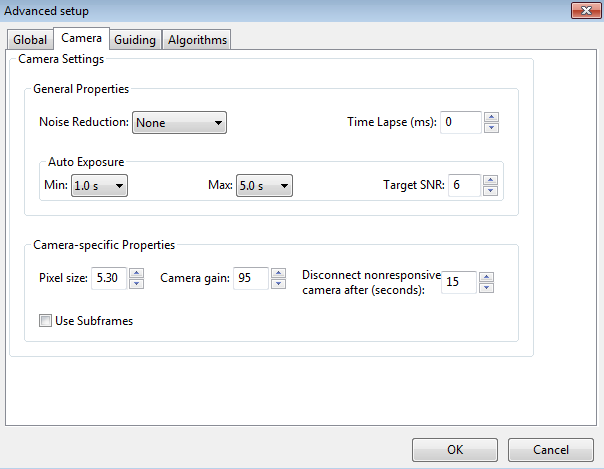
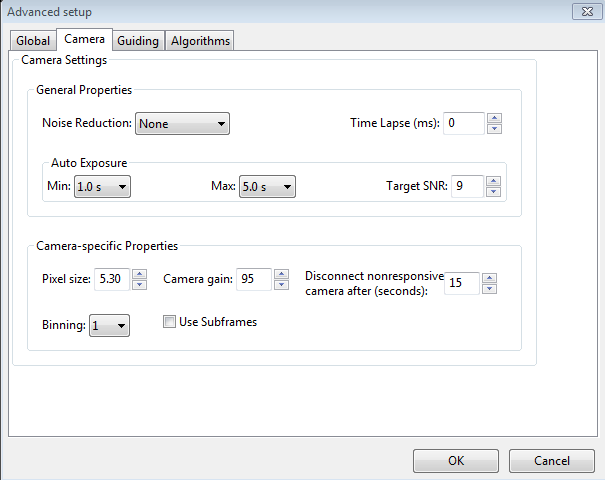
Help file updates

Changed region(s): [[0.0, 0.0, 1.0, 1.0], [0.2682, 0.6567, 0.447, 0.6866]]

diff --git a/help/Tools.htm b/help/Tools.htm
@@ -22,23 +22,24 @@ experiment with manual dithering. &nbsp;In the 'Tools' menu, click on
 'Manual
 Guide'&nbsp;<span style="font-weight: bold;"><span style="font-weight: bold;"></span></span>and
 a dialog will appear to let you move the mount at guide speed in any
-direction. Each time you press the button, a pulse of the&nbsp;duration
+direction. If you have an
+adaptive optics device attached, you'll see separate move buttons for
+both the AO and the secondary mount. &nbsp;Each time you press the button, a pulse of the&nbsp;duration
 specified in the 'Guide Pulse Duration' field will
 be sent. &nbsp;The default value is the 'calibration step-sze' set in
-the Advanced Options dialog. &nbsp;If you are debugging calibration
-problems, listen to (rather than watch) your mount to determine if the
-mount is getting
+the Advanced Options dialog. &nbsp;If you are debugging mount/calibration
+problems in the daytime, listen to (rather than watch) your mount to determine if it is getting
 the commands from <span style="font-style: italic;">PHD2</span>. The idea here is just to figure out if the
 mount is responding
 to <span style="font-style: italic;">PHD2</span>'s
 signals. You won't be able to see the mount move (it's moving
 at guide speed)
-but you may be able to hear it. Other options include watching the
-motors themselves or
+but you may be able to hear the motors. Other options include watching
+the
+motors and gears or
 attaching a laser pointer to your scope and aiming it at something
-fairly far away (to amplify your motions). &nbsp;If you have an
-adaptive optics device attached, you'll see separate move buttons for
-both the AO and the secondary mount. &nbsp;<br>
+fairly far away (to amplify your motions). &nbsp;A better&nbsp;approach
+for nighttime testing is to run the "star-cross" test described <a href="Trouble_shooting.htm#Star_cross_test">here</a>.&nbsp; &nbsp;<br>
 <br>
 <a name="Dithering"></a>Dithering
 is used primarily with image capture or automation applications,
@@ -228,12 +229,17 @@ of these image files is controlled from the 'Global' tab of the
 problem you're having, you should choose the 'Raw Fits' format for
 maximum flexibility.<br>
 <h3><a name="Drift_Align"></a>Drift Align</h3>
-Drift alignment is a well-known technique for achieving polar alignment and
+Drift alignment is a well-known technique for achieving polar alignment
+and
 is considered by many to be the "gold standard". &nbsp;The Drift
 Alignment tool is a&nbsp;wizard-like sequence of dialogs that can help
 you work through the drift alignment process and get quantifiable
-results. &nbsp;Once you've calibrated your guider, click on 'Drift
-Align' under the 'Tools' menu. &nbsp;The first Drift Align dialog will
+results. &nbsp;Once you've calibrated your guider and have started
+guiding, click on 'Drift
+Align' under the 'Tools' menu. &nbsp;The Drift Alignment tool will
+disable and re-enable declination guiding as necessary, so don't worry
+about that. &nbsp;It will also keep RA guiding active so&nbsp;uncorrected periodic error in the mount doesn't interfere with the
+measurements. &nbsp;The first Drift Align dialog will
 appear to help you adjust the azimuth on your mount. &nbsp;If you are
 using an ASCOM mount, you'll have the option of slewing to an area
 near the celestial equator and the celestial meridian. &nbsp;If you're
@@ -265,7 +271,7 @@ can use the 'notes' field to record which way the drift line moves
 depending on how you make the adjustment. &nbsp;For example, you might
 note that a counter-clockwise turn of the mount azimuth knob moves the
 drift line "up." &nbsp;Since these notes are retained across <span style="font-style: italic;">PHD2</span>
-sessions, subsequent drift alignments will probably proceed more
+sessions, subsequent drift alignments will probably go more
 quickly.<br>
 <br>
 Until you are experienced with drift aligning your particular mount, the
@@ -287,7 +293,12 @@ clear view of how the adjustment has moved the star on the guide frame.<br>
 <br>
 Next, click on the 'Altitude' button.
 &nbsp;Then slew the scope to a position near the celestial equator and
-25-30 degrees above the horizon. &nbsp;Click on the 'drift' button to
+25-30 degrees above the east or west horizon. &nbsp;If you have
+obstructions in both directions and can't slew this low, don't worry
+about it - just get as close as you can. &nbsp;Using higher elevations
+on the east or west horizon will still work, but it may take a bit
+longer to converge on your final polar alignment. &nbsp;Click on the
+'drift' button to
 begin collecting data for the altitude part of the alignment process.
 &nbsp;As before, you will iterate between making adjustments and
 measuring your alignment until you are satisfied with the result,
@@ -297,14 +308,19 @@ of the declination drift line.
 go back to the 'azimuth' measurement and repeat that procedure.
 &nbsp;If you work through these procedures systematically, you'll
 converge on a good polar alignment with a known degree of accuracy.
-&nbsp;A good polar alignment will&nbsp;help your guiding performance,
-especially in declination.<br><br>The
+&nbsp;A good polar alignment will&nbsp;help your guiding performance
+and will avoid field rotation in your images..<br><br>The
 drift alignment tool is easiest to use when you are using an ASCOM
 connection to your mount (including an 'Aux' connection). &nbsp;Even if
 you subsequently want to use
 ST-4 style guiding, you should use the ASCOM connection for drift
-alignment. &nbsp;If you can't do that for some reason, the following
-features will be impaired:<br><ul><li>Scope position data and slewing functions will not be available - you'll have to slew the scope yourself</li><li>The
+alignment to make things easier. &nbsp;If you can't do that for some reason, the following
+features will be impaired:<br><ul><li>Scope
+position data and slewing functions will not be available - you'll have
+to slew the scope yourself. &nbsp;Keep in mind, the target
+altitude/azimuth positions are only approximate - you don't need to be
+particularly concerned about accuracy - just get reasonably close with
+a good guide star available in the field of view.</li><li>The
 magenta circle that identifies the&nbsp;target for moving the star will be
 inaccurate and will be displayed as a dashed line. &nbsp;This dashed
 circle will identify only an upper bound to the adjustment, so you will

diff --git a/help/Basic_use.htm b/help/Basic_use.htm
@@ -52,7 +52,28 @@ that are already installed on your system, if any.<br><br>The
 list of supported cameras at the time of writing is shown below - but
 you can contact the <a href="https://groups.google.com/forum/#%21forum/open-phd-guiding">open-phd-guiding forum</a> to inquire about your specific camera or mount.<br>
 <br>
-Supported cameras, December 2014:<br><br>Windows:<br><ul class="circle"><li>ASCOM v5/6 compliant cameras</li><li>Atik 16 series, color or monochrome</li><li>Atik Gen 3 color or monochrome</li><li>CCD-Labs Q-Guider</li><li>Fishcamp Starfish</li><li>iNova PLC-M</li><li>MagZero MZ-5</li><li>Meade DSI series: I-III, color and monochrome</li><li>Orion StarShoot DSCI&nbsp;</li><li>Orion Starshoot Autoguider</li><li>Orion Starshoot Planetary Imager and Autoguider</li><li>QHY 5-II</li><li>QHY 5L-II</li><li>SAC4-2</li><li>SBIG</li><li>SBIG rotator</li><li>Starlight Xpress SXF / SXVF / Lodestar</li><li>Webcams (LXUSB, parallel, serial, OpenCV, WDM)</li><li>ZWO ASI</li></ul>Mac:<br><ul><li>Fishcamp Starfish</li><li>KWIQGuider</li><li>Meade DSI series: I-III, color and monochrome</li><li>Orion Starshoot Autoguider</li><li>SBIG</li><li>Starlight XPress SXV</li><li>The Imaging Source (DCAM Firewire)</li><li>ZWO ASI</li></ul><br>
+Supported cameras, December 2014:<br><br>Windows:<br><ul class="circle"><li>ASCOM v5/6 compliant cameras</li><li>Atik 16 series, color or monochrome</li><li>Atik Gen 3 color or monochrome</li><li>CCD-Labs Q-Guider</li><li>Fishcamp Starfish</li><li>iNova PLC-M</li><li>MagZero MZ-5</li><li>Meade DSI series: I-III, color and monochrome</li><li>Orion StarShoot DSCI&nbsp;</li><li>Orion Starshoot Autoguider</li><li>Orion Starshoot Planetary Imager and Autoguider</li><li>QHY 5-II</li><li>QHY 5L-II</li><li>SAC4-2</li><li>SBIG</li><li>SBIG rotator</li><li>Starlight Xpress SXF / SXVF / Lodestar</li><li>Webcams (LXUSB, parallel, serial, OpenCV, WDM)</li><li>ZWO ASI</li></ul>Mac:<br><ul><li>Fishcamp Starfish</li><li>KWIQGuider</li><li>Meade DSI series: I-III, color and monochrome</li><li>Orion Starshoot Autoguider</li><li>SBIG</li><li>Starlight XPress SXV</li><li>The Imaging Source (DCAM Firewire)</li><li>ZWO ASI</li></ul><h4><a name="SBIG_dual_chip_cameras"></a>Support for SBIG dual-chip cameras</h4>Many
+cameras from the Santa Barbara Instrument Group (SBIG) have
+two&nbsp;sensors - a primary one for imaging and a second, smaller one
+for guiding. &nbsp;While the two sensors are physically separate, they
+share&nbsp;electronics inside the camera and more importantly, share a
+single USB data link to the computer. &nbsp;This means that&nbsp;
+downloading of data from the two sensors must be coordinated - you
+can't retrieve a guider image while an image from the main sensor is
+being downloaded. &nbsp;Beyond that, Windows will only allow one
+application at a time to connect to the camera over the single USB
+link. &nbsp;These are physical and architectural restrictions that
+can't be circumvented by PHD2. &nbsp;However, it is possible for the
+camera-controlling (image capture) application to implement an
+interface for PHD2&nbsp;to get data from the guide chip - essentially,
+a "side door" mechanism that won't violate any of the above rules.
+&nbsp;With this arrangement, the image capture application is acting as
+a traffic cop to coordinate access to the two camera sensors. &nbsp;At
+the time of this writing (October 2015), the only imaging
+application that does this is Sequence Guider Pro (SGP). &nbsp;If you
+use SGP as your main imaging application, you can also use their "SGP
+API Guider" module, which allows PHD2 to access the guide chip on the
+SBIG camera.
 <h4><a name="Mount_Selection"></a>Mount Selection</h4>
 The Mount drop-down list displays&nbsp;options for connecting to
 your mount. &nbsp;There are generally two ways to do this:<br>
@@ -113,8 +134,9 @@ Windows users, the "aux" mount can use any of the ASCOM-compatible
 mount drivers, while Linux users can take advantage of INDI drivers.
 &nbsp;The "aux" mount choice will be used only if the primary mount
 interface cannot return pointing information - it will otherwise be
-ignored.
- <h4><a name="AO_Selection"></a>Adaptive Optics and <a name="Rotator_Selection"></a>Rotator Selections</h4>
+ignored. &nbsp;Note: some mounts (e.g. Celestron and iOptron) have a
+separate hardware port also labeled 'Aux' - DO NOT USE THIS&nbsp; for
+guiding - it is completely unrelated to the 'Aux' connection in PHD2. <h4><a name="AO_Selection"></a>Adaptive Optics and <a name="Rotator_Selection"></a>Rotator Selections</h4>
 With
 <span style="font-style: italic;">PHD2</span>, you
 now have the option of controlling the Starlight Xpress
@@ -144,7 +166,14 @@ when device simulators are used. &nbsp;You will even
 see fairly realistic guiding performance to give you some idea of what
 to expect in the field. &nbsp;To get started using the simulators,
 choose 'Simulator' for the camera type and 'On-camera' for the Mount
-type.<br>
+type.<br><br>That said, the simulators are <span style="font-weight: bold;">not</span>
+useful for trouble-shooting any problems you encounter with your real
+mount. &nbsp;Both the camera and the mount must be&nbsp;real devices in
+order to diagnose problems or otherwise get your gear calibrated and
+working. &nbsp;In that sense, what you see when using the simulators is
+realistic but "fake" behavior. &nbsp;The simulators can be useful in some cases
+for reproducing PHD2 application problems, but not for anything having
+to do with your actual guiding equipment.<br>
 <h4><a name="Equipment_Profile"></a>Equipment Profile</h4>
 At the top of
 the 'Connect Equipment' dialog are some additional controls for
@@ -157,7 +186,7 @@ profile; and you can just use the default profile. &nbsp;But you
 may
 have multiple equipment configurations - for example, an
 off-axis-guiding arrangement for a long focal length scope and a
-separate guide scope/camera configuration for s shorter focal length
+separate guide scope/camera configuration for a shorter focal length
 imaging scope. &nbsp;The <span style="font-style: italic;">PHD2</span>
 guide settings for those configurations
 are likely to be different, so you would want to use separate equipment

diff --git a/help/Advanced_settings.htm b/help/Advanced_settings.htm
@@ -40,7 +40,7 @@ RA only' - for companion apps that use the <span style="font-style: italic;">PHD
 specifies that dithering should be done only on the RA axis</li>
 <li>'<a name="Dither_scale"></a>Dither scale' - controls the magnitude of the dithering
 operation&nbsp;</li><li>'<a name="Log_File_Location"></a>Log File Location' - specifies a file directory where PHD2 guide and debug log files will be stored.</li></ul><br><h3><a name="Camera_Tab"></a>Camera Tab</h3>
-<span style="font-size: 10pt; font-family: Arial;"></span><img style="width: 604px; height: 469px;" alt="" src="Advanced_camera.png"><br>
+<span style="font-size: 10pt; font-family: Arial;"></span><img style="width: 605px; height: 480px;" alt="" src="Advanced_camera.png"><br>
 <br>
 The controls on the 'Camera' tab are used as follows: <br>
 <ul><li>'<a name="Noise_reduction"></a>Noise
@@ -114,7 +114,10 @@ the&nbsp;SBIG driver that is packaged with Sequence Generator Pro.
 &nbsp;Regardless of whether PHD2 is able to handle the situation
 gracefully, the underlying problem is almost certainly in&nbsp;the
 hardware or the camera driver and will need to be resolved before
-guiding is continued.</li><li>'<a name="Use_subframes"></a>Use subframes' - For&nbsp;cameras that support this
+guiding is continued.</li><li><a name="Binning_setting"></a>Binning
+- for those cameras that support on-chip (hardware) binning, you can
+specify the binning that will be used while taking guide exposures.
+&nbsp;See below for a more detailed discussion.&nbsp;</li><li>'<a name="Use_subframes"></a>Use subframes' - For&nbsp;cameras that support this
 feature, <span style="font-style: italic;">PHD2</span>
 will download only a 100x100 subframe of each guide
 exposure.&nbsp;This is very useful for cameras with slow download
@@ -124,7 +127,44 @@ This feature applies to both calibration and guiding.
 frame is downloaded, but once a star is selected, only this small
 subframe is downloaded. &nbsp; If you are using subframes but want to
 see the full frame to select a different star, just click anywhere
-outside the subframe.</li></ul><h3><a name="Guiding_Tab"></a>Guiding Tab</h3><span style="font-size: 10pt; font-family: Arial;"></span><img style="width: 602px; height: 567px;" alt="" src="Advanced_guiding.png"><br><br>The
+outside the subframe.</li></ul><span style="font-weight: bold;"><a name="Binning_usage"></a>Use of Binning</span><br>Some
+of the guide cameras available in PHD2 support hardware-level binning,
+and this may be helpful in&nbsp;situations where you are guiding at
+long focal lengths or have a guide camera with very small pixels. These
+scenarios often result in having to use&nbsp;faint guide stars, and the
+guider images may be substantially over-sampled. &nbsp;Over-sampling
+provides no real benefit, and the projection of a faint star disk onto
+many small pixels can result in a low signal-to-noise ratio (SNR).
+&nbsp;By binning the image, you can reduce the impact of camera read
+noise and thus improve the SNR; and if you are over-sampled, &nbsp;you
+won't degrade the accuracy of computing the&nbsp;guide star location.
+&nbsp;Choosing a binning factor greater than one will have the
+following effects:<br><ol><li>Star images will have a higher SNR and
+will be easier to detect above the background noise level. &nbsp;This
+is only beneficial if you are limited to a choice among faint stars
+(i.e. with SNR values near the threshold of 3).</li><li>The amount of
+data downloaded from the camera will&nbsp;be reduced by the square of
+the binning factor. &nbsp;This can be helpful if you are using a camera
+that&nbsp;makes heavy use of USB resources even if star brightness and
+SNR are already reasonable with un-binned images. &nbsp;Of course,
+using sub-frames can achieve the same result once a star has been
+selected.</li><li>The resolution (image scale) of your guider image
+will be reduced by the binning factor. &nbsp;This is not likely to be a
+problem if the un-binned image scale is below 1 arc-sec/pixel, but your
+guiding results may suffer if the un-binned image scale is well above 1
+arc-sec/pixel. &nbsp;You may need to experiment because the results
+will also depend on the image scale of your main camera system.</li><li>Each
+binning level requires its own&nbsp;dark frames and bad-pixel map -
+they are not interchangeable, nor can a transform be done
+automatically. &nbsp;If you foresee the need to switch back and forth
+between binning settings, you should create separate profiles for each
+setting. &nbsp;Then build&nbsp;a dark library and a bad-pixel map for
+each of those profiles. &nbsp;When you want to change binning factors,
+just switch to the profile that has the setting you want, and a dark
+library and/or bad-pixel map will be available.</li></ol>Most PHD2
+users probably won't need to use binning, and you should probably avoid
+doing so unless you have a clear understanding of the implications and
+an equally clear idea of what you are trying to accomplish.<h3><a name="Guiding_Tab"></a>Guiding Tab</h3><span style="font-size: 10pt; font-family: Arial;"></span><img style="width: 602px; height: 567px;" alt="" src="Advanced_guiding.png"><br><br>The
 guiding tab shows the&nbsp; parameters used for calibration,
 star-tracking, and guiding behavior shared by all of the guide algorithms..<br><br>Guide Star Tracking<br><ul><li>'<a name="Search_region"></a>Search
 region' - specifies the size of the "tracking rectangle", in units of

diff --git a/help/Trouble_shooting.htm b/help/Trouble_shooting.htm
@@ -105,7 +105,55 @@ sanity-checking used by PHD2 works well for a wide range of equipment,
 and most users don't see these calibration alerts at all.<br><br><span style="font-weight: bold;">Declination Backlash</span><span style="font-weight: bold;"></span><br>One
 of the more common sources of calibration problems, assuming the guide
 commands are working at all, is excessive backlash in declination.
-&nbsp;This is discussed in the <a href="Tools.htm#Declination_Backlash">Tools and Utilities</a> section, along with options for either fixing or side-stepping the problem.<br><h3><a name="Problems-_Display_Window"></a>Display Window Problems</h3>New users often&nbsp;<span style="font-size: 10pt;"></span>complain
+&nbsp;This is discussed in the <a href="Tools.htm#Declination_Backlash">Tools and Utilities</a> section, along with options for either fixing or side-stepping the problem.<br><br><span style="font-weight: bold;"><a name="Star_cross_test"></a>Validating Basic Mount Control - the Star-Cross Test<br></span>If you are having<span style="font-weight: bold;"> </span>repeated
+problems getting calibration to complete without alert messages, you
+should run a very simple test to see if the mount is responding to
+guide commands. &nbsp;This test basically mimics what is done during
+calibration, but it is more direct and can give you a better feel for
+what's going on. &nbsp;We'll call it the "star-cross" test. &nbsp;The
+idea is to open the shutter on the main imaging camera, then send guide
+commands that should cause the stars in the field to trace out a
+distinctive cross pattern. &nbsp;In other words, you want to get an
+image that looks something like this: <br><br><img style="width: 360px; height: 382px;" alt="" src="Star_cross_1.png"><br><br>The angular orientation doesn't matter, that's just a function of how you
+have the guide camera rotated. &nbsp;What is important is that the
+lines in the cross are perpendicular and have roughly equal lengths in
+each of the four directions relative to the starting point in the
+center. &nbsp;If the image you get doesn't have this approximate
+appearance, guiding will either be impaired or perhaps impossible.
+&nbsp;For example, consider the following poor result:<br><br><img style="width: 360px; height: 347px;" alt="" src="Bad_Star_Cross_1.png"><br><br>You
+can see the star has moved along only one axis&nbsp; -&nbsp;only
+in right ascension in this example. &nbsp;The declination guide
+commands sent to the mount did nothing at all. &nbsp;Until this is
+fixed in the mount, you won't be able to guide in declination at all
+and will have to disable declination guiding to even complete a
+calibration. &nbsp;There are&nbsp; many other permutations of bad
+results, each suggesting a particular problem in the mount, the guide
+cable, or much less likely, the ASCOM driver for the mount. &nbsp;You
+can safely assume it has nothing to do with PHD2.<br><br>Here are the steps for running the test: <br>
+
+<ol><li>Set the mount guide speed to 1X sidereal.&nbsp; Bring up
+the 'Manual Guide' tool in PHD2 and choose an initial pulse size - start with,
+say, 5 seconds.</li><li>Start a 60 second exposure on the main camera.</li><li>Send
+a 5-second pulse west, then two 5-second pulses east, then a final
+5-second pulse west. &nbsp;This should return the star to its
+approximate starting position. &nbsp;You should&nbsp;wait about 5
+seconds after sending each guide pulse to give the command time to
+complete before sending the next pulse. <span style="font-family: Arial;"></span></li><li>Now send a 5 second pulse north, then two 5-second pulses south, then a final
+5-second pulse north. &nbsp;This should again return the star to its starting position.<br></li><li><span style="font-size: 10pt; font-family: Arial;">
+Wait for the main camera image to download and see what you get.</span></li></ol>You
+can use different pulse lengths if you want, perhaps using smaller
+values to confirm the mount will respond to them. &nbsp;Just be sure
+the total exposure time on the main imaging camera is longer than the
+total&nbsp; of guide durations plus a margin for error. On most mounts,
+the star will not return to its exact center because of some
+declination backlash - you can see that in the first example&nbsp;image. &nbsp;But
+it should be fairly close or you'll need to look more carefully at how
+much declination backlash you have in the mount.<br><br>One benefit to
+using this test is that it reduces things to the absolute basics: will
+the mount move as directed or not. &nbsp;It has nothing to do with PHD2
+guide settings because they aren't involved in the test. &nbsp;You may
+find it helpful to use the test results to communicate with the mount
+manufacturer or other users who understand that specific mount and its typical&nbsp; problems..<br><h3><a name="Problems-_Display_Window"></a>Display Window Problems</h3>New users often&nbsp;<span style="font-size: 10pt;"></span>complain
 that the image displayed in the main window is extremely noisy or is
 almost all-white or all-black. &nbsp;Assuming the camera is
 functioning and actually downloading images, the display issues are
